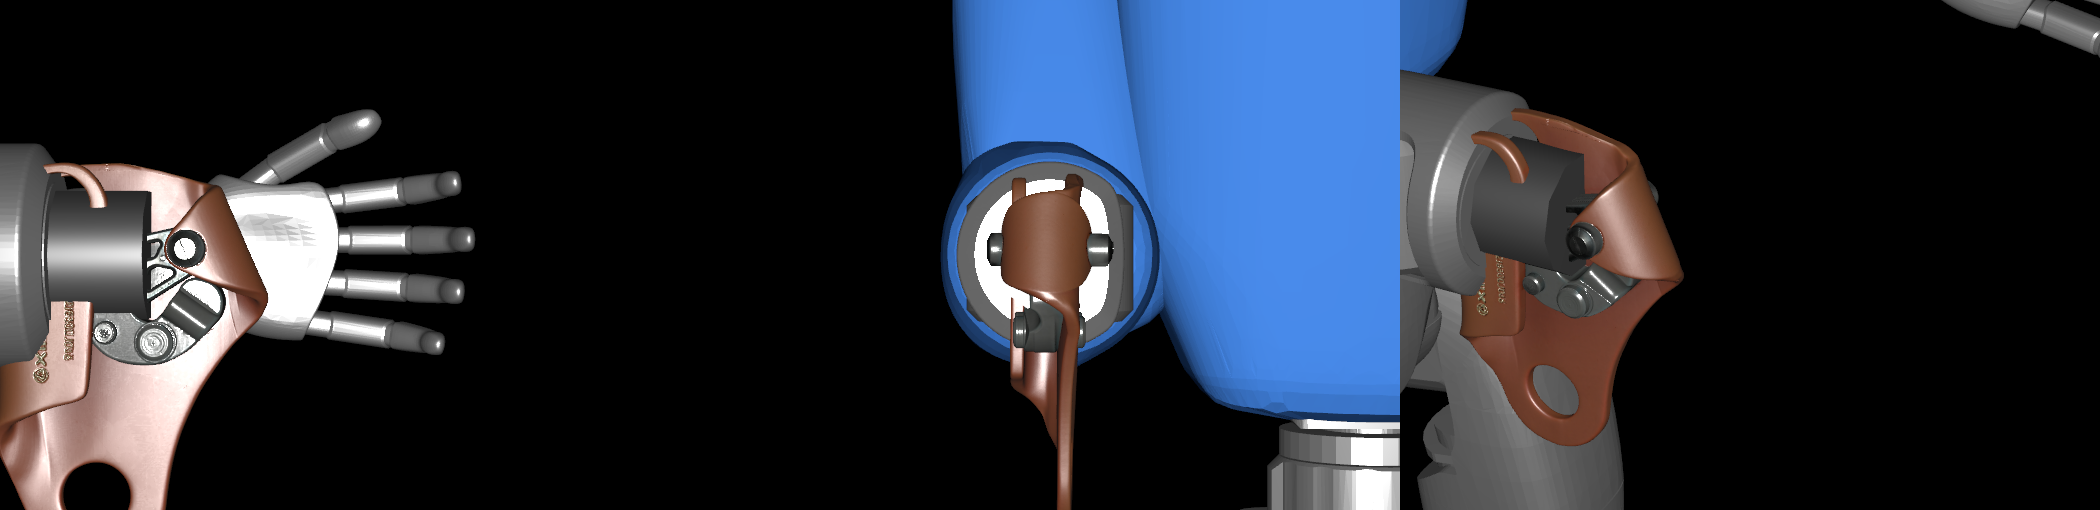
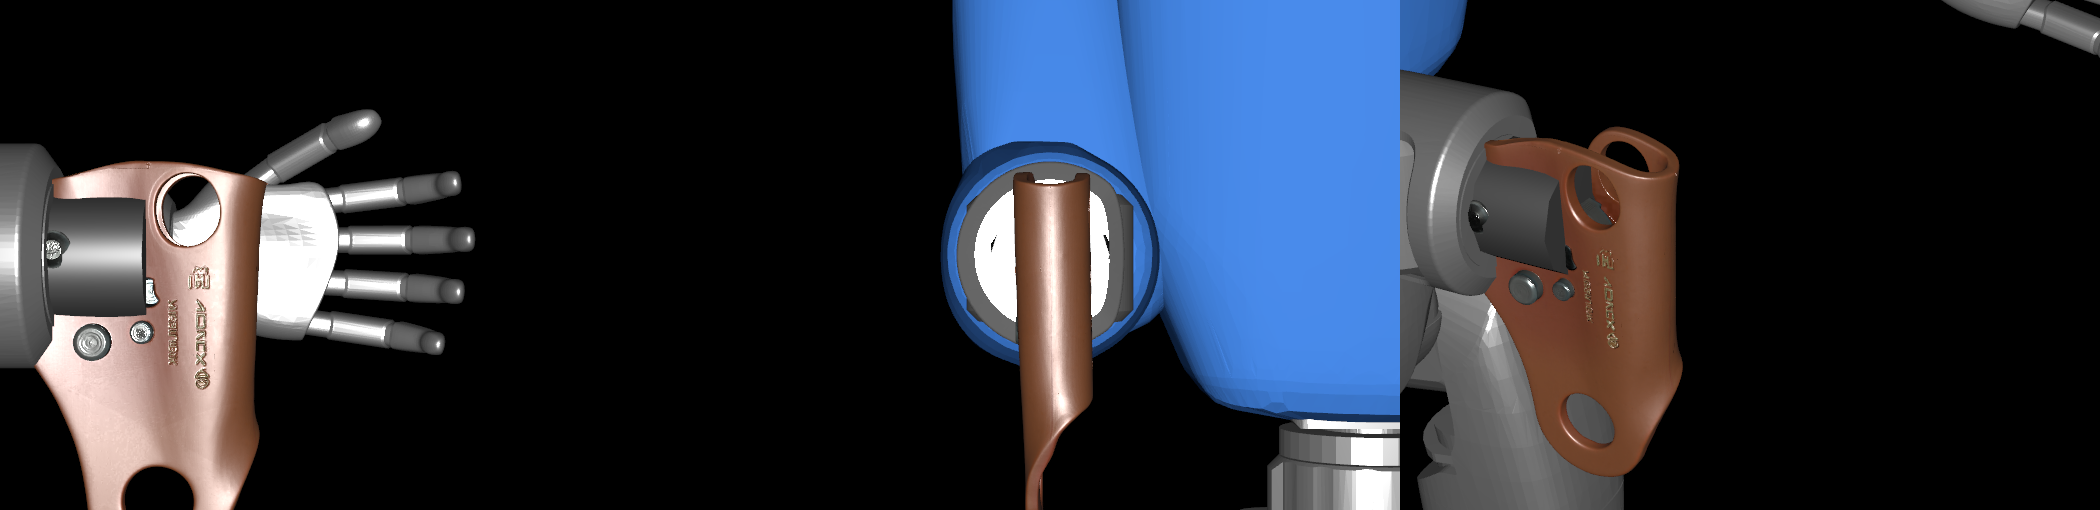
Effector yawed 180 deg about wrist Z
Claude-Session: https://claude.ai/code/session_01Kj5So1s4xrTsHeTeJU72py

diff --git a/assets/robots/g1/attach_tool.py b/assets/robots/g1/attach_tool.py
@@ -16,10 +16,10 @@ LINK = "/G1/right_wrist_yaw_link"
 # Mount: ascender UPRIGHT like on a fixed rope - cam head centred on the wrist joint, handle hanging below
 # (wrist frame: X = forearm, Z = up when the arm is horizontal).
 # Basis mapping (Gf is row-vector convention: rows = images of tool X, Y, Z in the wrist frame):
-#   tool X (width)        -> wrist +X
-#   tool Y (thickness)    -> wrist +Y   (mechanism side = tool -Y = outward, away from the body)
+#   tool X (width)        -> wrist -X
+#   tool Y (thickness)    -> wrist -Y
 #   tool Z (handle->head) -> wrist +Z   (head up)
-_R = Gf.Matrix3d(1, 0, 0,   0, 1, 0,   0, 0, 1)   # identity: cam mechanism (tool -Y) faces away from the body
+_R = Gf.Matrix3d(-1, 0, 0,   0, -1, 0,   0, 0, 1)   # 180 deg yaw about wrist Z
 HEAD_Z = (0.06, 0.11)                        # cam-mechanism span along the tool axis (110 mm tool, cam in the top half)
 TOOL_POS = Gf.Vec3d(0.06, 0.0, -(HEAD_Z[0] + HEAD_Z[1]) / 2)   # head on the joint, just past the wrist mesh (ends x=0.047)
 _qd = _R.ExtractRotation().GetQuat(); TOOL_ROT = Gf.Quatf(_qd.GetReal(), *_qd.GetImaginary())
